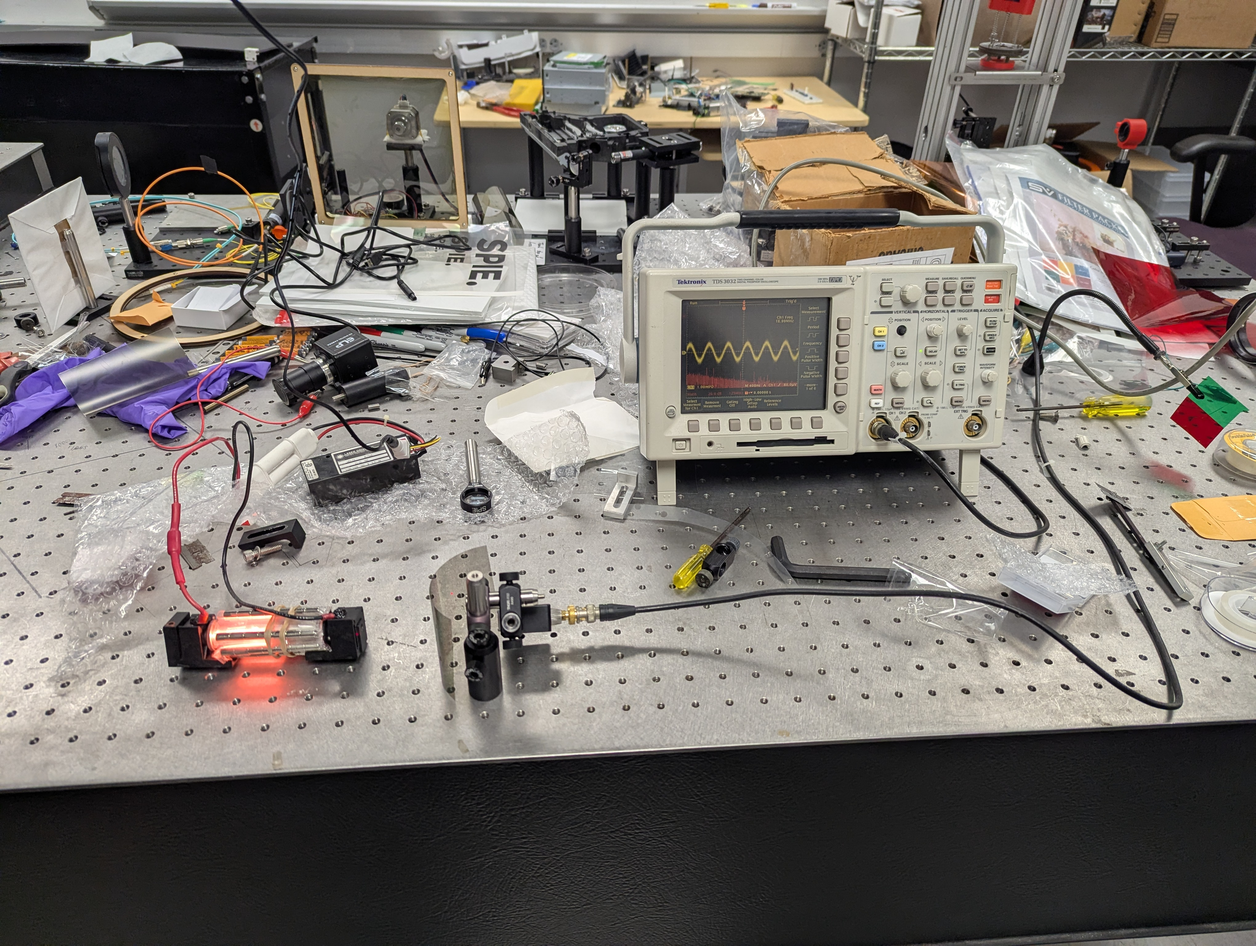
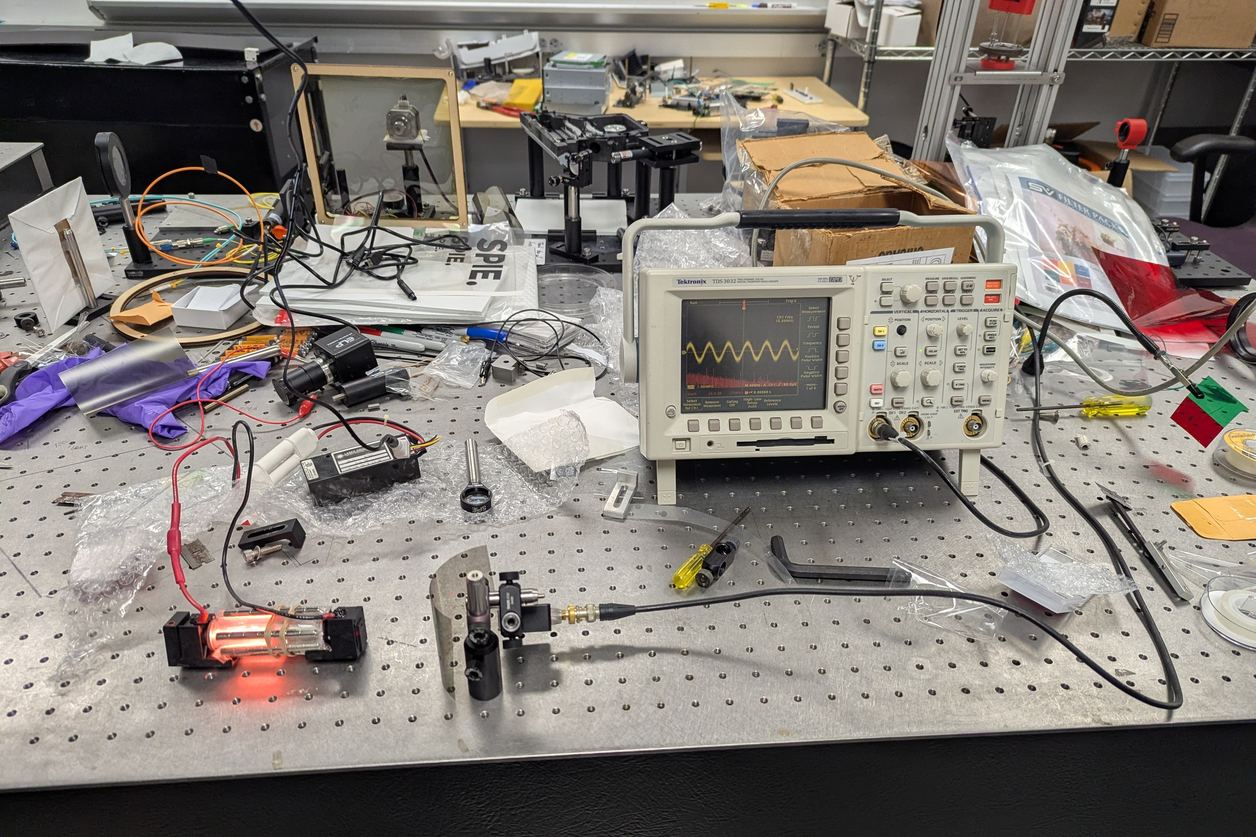
Work on about pages.
Last commit before migration to ownership by new github account

diff --git a/src/styles/global.css b/src/styles/global.css
@@ -249,7 +249,7 @@ main.page {
   display: grid;
   grid-template-columns: minmax(0, 1fr) 448px;
   gap: 56px;
-  align-items: stretch;
+  align-items: start; /* the columns don't have to end level: photos keep their own shape */
 }
 .demo-hero-main {
   display: flex;
@@ -381,21 +381,21 @@ main.page {
   text-align: right;
   white-space: nowrap;
 }
+/* Photos and clips below the scores, each at its own aspect ratio */
+.demo-photos {
+  display: flex;
+  flex-direction: column;
+  gap: 16px;
+}
 .photo {
-  flex-grow: 1;
-  min-height: 220px;
-  position: relative;
-  overflow: hidden;
+  position: relative; /* for the clip's pause/play button */
   margin: 0;
 }
 .photo img,
 .photo video {
-  position: absolute;
-  inset: 0;
   display: block;
   width: 100%;
-  height: 100%;
-  object-fit: cover;
+  height: auto;
 }
 
 /* Pause/play button on looping video clips (src/components/LoopVideo.astro) */
@@ -422,19 +422,6 @@ main.page {
 .video-toggle[data-state='playing'] .icon-play,
 .video-toggle[data-state='paused'] .icon-pause {
   display: none;
-}
-.placeholder {
-  background: var(--placeholder);
-  display: flex;
-  align-items: center;
-  justify-content: center;
-  font-family: var(--mono);
-  font-size: 14px;
-  color: var(--muted);
-}
-.placeholder--dark {
-  background: var(--ink);
-  color: #cfcbc2;
 }
 
 /* ───────── Demo page: body ───────── */
@@ -1046,6 +1033,17 @@ a.cite {
   white-space: nowrap;
 }
 
+/* Background section below the plot (text from src/content/pages/home.md) */
+.home-intro {
+  padding-top: 112px;
+  display: flex;
+  flex-direction: column;
+  gap: 24px;
+}
+.home-intro-body {
+  max-width: 780px;
+}
+
 /* All demos list */
 .all-demos {
   padding-top: 112px;
@@ -1493,6 +1491,13 @@ a[data-footnote-ref]::after {
   color: var(--accent);
 }
 
+/* Markdown page without a Contents sidebar (About: src/content/pages/about.md) */
+.prose-page {
+  max-width: 856px;
+  padding-top: 56px;
+  gap: 72px;
+}
+
 /* ───────── Simple pages (Resources, About) ───────── */
 
 .simple-page {
@@ -1662,20 +1667,18 @@ a[data-footnote-ref]::after {
     grid-template-columns: minmax(0, 1fr);
     gap: 32px;
   }
-  .demo-diagram {
+  /* Title, subtitle, blurb and diagram: one column, centred on the page */
+  .demo-hero-main {
+    width: 100%;
     max-width: 720px;
+    margin-inline: auto;
   }
+  /* Scores on the left, photos on the right (each at its own aspect ratio) */
   .demo-side {
     display: grid;
     grid-template-columns: minmax(0, 448px) minmax(0, 1fr);
-    grid-template-rows: 1fr 1fr;
     gap: 16px;
-  }
-  .demo-side .scores {
-    grid-row: span 2;
-  }
-  .photo {
-    min-height: 160px;
+    align-items: start;
   }
   .demo-body,
   .rubric-body {
@@ -2072,9 +2075,14 @@ a[data-footnote-ref]::after {
     font-size: 14px;
     color: var(--accent);
   }
-  .all-demos {
+  .all-demos,
+  .home-intro {
     padding-top: 56px;
     gap: 16px;
+  }
+  .prose-page {
+    padding-top: 32px;
+    gap: 48px;
   }
   .all-demos-head {
     padding-top: 16px;
@@ -2152,14 +2160,6 @@ a[data-footnote-ref]::after {
   .read-score .meter span {
     width: 8px;
     height: 10px;
-  }
-  .photo.placeholder {
-    display: none;
-  }
-  .photo {
-    flex-grow: 0;
-    min-height: 0;
-    aspect-ratio: 2 / 1;
   }
   .demo-body {
     padding-top: 40px;

diff --git a/src/content.config.ts b/src/content.config.ts
@@ -99,4 +99,14 @@ const resources = defineCollection({
   }),
 });
 
-export const collections = { demos, resources };
+// One-off pages written in Markdown: src/content/pages/<name>.md
+//   about.md → the About page          home.md → the background section on the front page
+const pages = defineCollection({
+  loader: glob({ pattern: '*.md', base: './src/content/pages' }),
+  schema: z.object({
+    title: z.string(),
+    subtitle: z.string().optional(),
+  }),
+});
+
+export const collections = { demos, resources, pages };

diff --git a/src/content/pages/about.md b/src/content/pages/about.md
@@ -1,0 +1,29 @@
+---
+title: About
+subtitle: >-
+  Our mission: to grow the community of optics & photonics at UCSD and to use the appealing &
+  exciting nature of light for broader STEM outreach.
+---
+
+Photonics Society at UC San Diego was founded in 2004. We are a student organization at UCSD which serves as UCSD's [SPIE](https://spie.org) student chapter. We frequently host events for UCSD students and also perform K-12 outreach. In the past few years we've come up with a formula that has worked well for us to be able to do all 3 of the following things simultaneously:
+
+1. Foster an environment for people from the optics & photonics community at UCSD to connect
+2. Get people of all ages excited about optics and STEM in general
+3. Provide opportunities for hands-on experience in building optical setups / projects
+
+## Our formula
+
+Our most frequent events are our "Optics Hour" events. Essentially, these are monthly events where we order a bunch of free food and show off cool optical demonstrations to students (and staff/faculty) of all backgrounds at UCSD! This is a simple concept but there are multiple important details to this formula which make it extremely effective:
+
+**At least one new demo every event.**
+
+
+## This site
+
+The main focus of this website is to showcase all the cool demos we've [WORK IN PROGRESS]
+
+## Get in touch
+
+- [Discord](https://discord.gg/BAkKYwrYcK)
+- GITHUB LINK
+- INSTAGRAM LINK

diff --git a/README.md b/README.md
@@ -119,6 +119,13 @@ Links to other pages on this site should start with `/` (e.g. `/resources/`). Th
 
 Resource pages (Light Sources, Optomechanics, …) live in `src/content/resources/<page-name>/index.md` and appear at `/resources/<page-name>/` and on the Resources page. The top of the file needs `title`, `subtitle` and `order` (position on the Resources page, lowest first). The rest uses exactly the same Markdown conventions as demo pages above. The scoring rubric is the exception: it's generated from `src/data/rubric.yaml`.
 
+## Other pages' text
+
+Some page text is Markdown in `src/content/pages/`, using the same conventions as demo pages:
+
+- `about.md`: the About page. `title` and `subtitle` (shown under the title) go at the top; the text before the first `##` is the intro, and each `##` starts a numbered section.
+- `home.md`: the "About these demos" section on the front page, between the plot and the list. Its `title` is the section heading.
+
 ## Development
 
 ```bash

diff --git a/src/content/pages/home.md b/src/content/pages/home.md
@@ -1,0 +1,8 @@
+---
+# The background section on the front page, between the plot and the list of demos.
+title: About these demos
+---
+
+[Placeholder] A few sentences about where these demos came from: who built them, and how the
+Photonics Society uses them at Optics Hour and in K-12 outreach. Write ordinary Markdown here;
+[links](/about/) work as usual.
